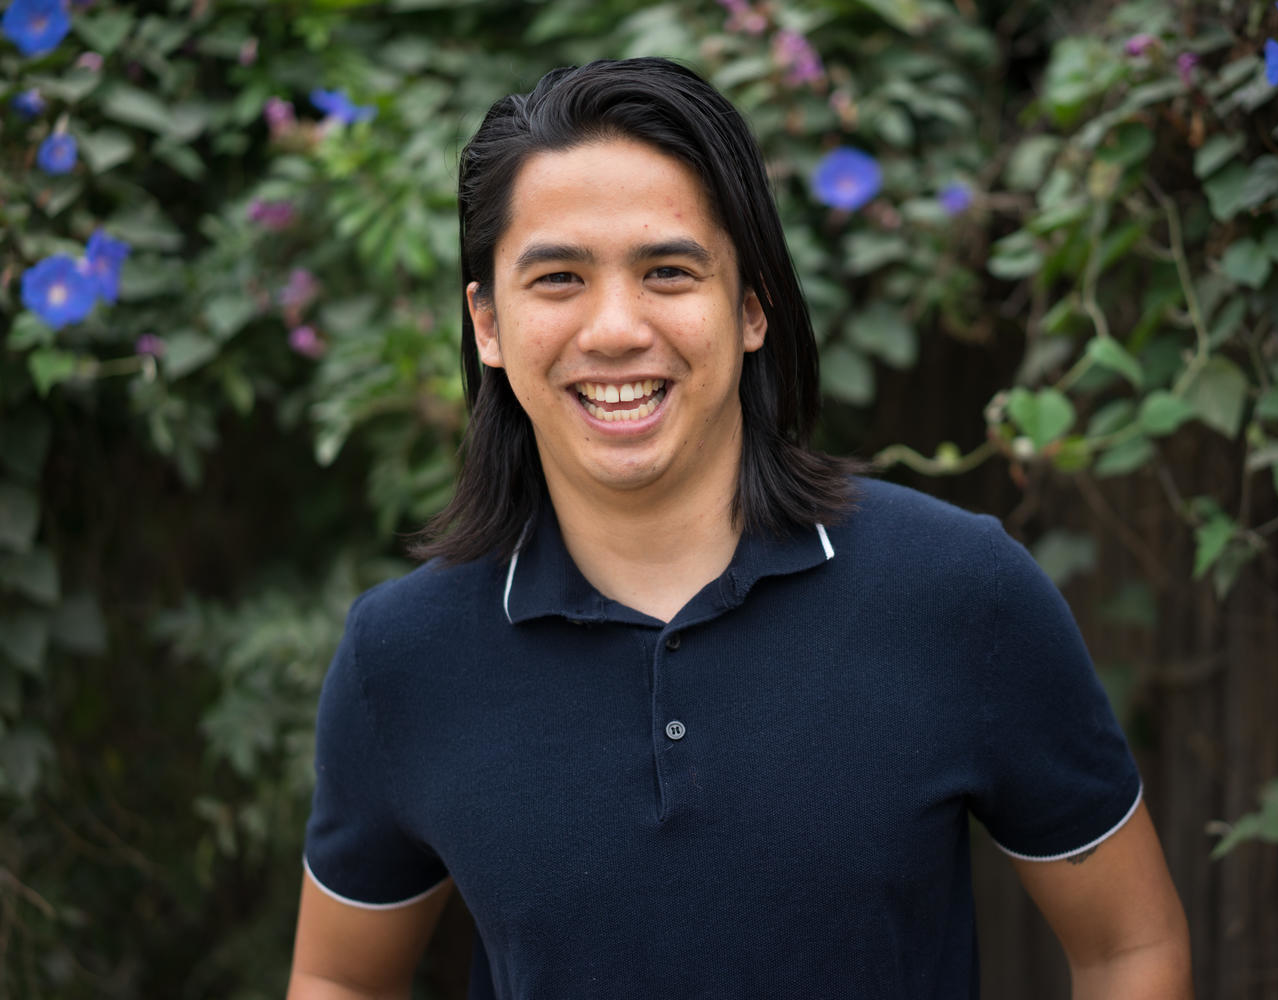
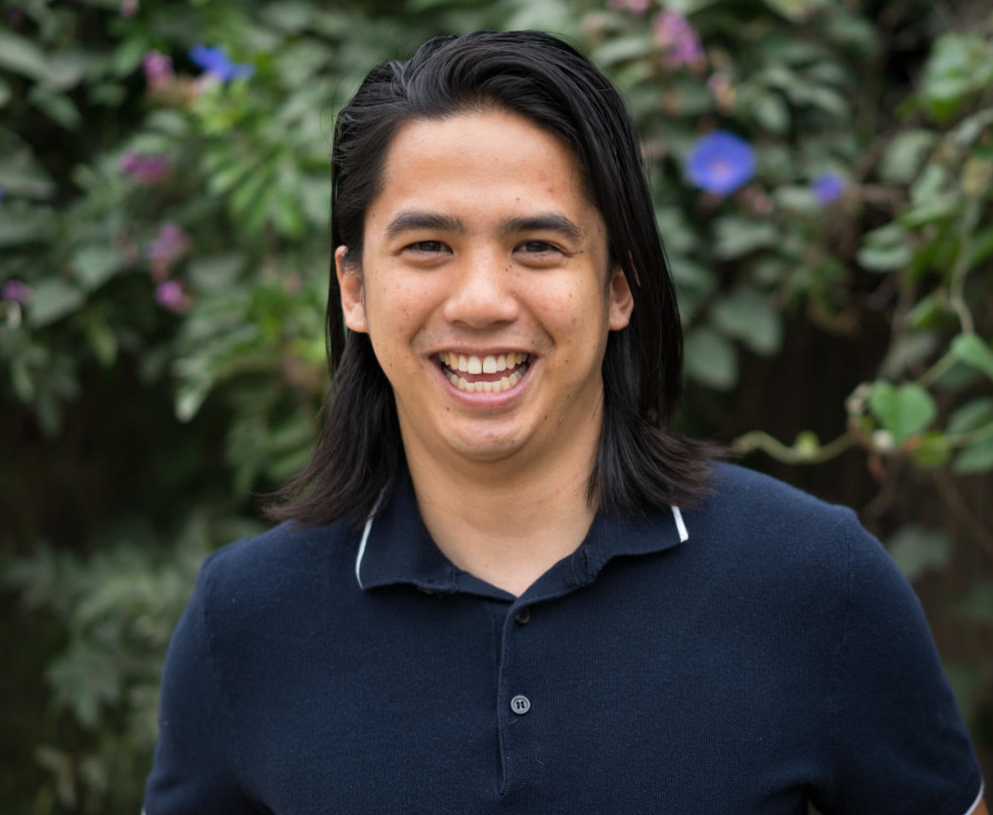
changed profile picture

diff --git a/css/component.css b/css/component.css
@@ -79,7 +79,7 @@ a:hover {
 .bl-main > section:first-child {
 	top: 0;
 	left: 0;
-	background: url('../images/picture.jpg');
+	background: url('../images/headshot2.jpg');
 	background-color: #2b3b8c;
 	  background-size: cover;
 		background-position: center;
@@ -135,6 +135,7 @@ a:hover {
 	letter-spacing: 2px;
 	font-weight: 700;
 	text-transform: uppercase;
+	text-shadow: 0 0 
 }
 
 .bl-icon {
